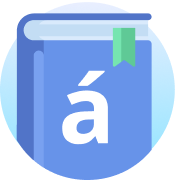
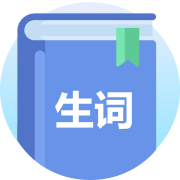
BBC-986 modal

Changed region(s): [[0.2857, 0.3889, 0.7429, 0.8056], [0.0857, 0.1389, 0.1143, 0.25], [0.8571, 0.0833, 0.8857, 0.1111]]

diff --git a/packages/chai-contents-view-v2/src/components/molecules/LayoutModalVoca.tsx b/packages/chai-contents-view-v2/src/components/molecules/LayoutModalVoca.tsx
@@ -2,15 +2,10 @@ import styled from "@emotion/styled";
 import React from "react";
 import ComponentButtonFillBlack from "./ComponentButtonFillBlack";
 import ImgVoca from "../../images/img/img_voca.png";
-import IconSpeaker from "../../images/icon/icon_speaker_white.svg";
+import IconClose from "../../images/icon/icon_close_black.svg";
+import ComponentButtonPlay from "./ComponentButtonPlay";
 
 const ModalBase = styled.div`
-  .btns-wrap {
-    .btn {
-      /* 28px */
-      font-size: 1.4vw;
-    }
-  }
 `;
 
 
@@ -20,6 +15,10 @@ const LayoutModalVoca = () => {
     <ModalBase className="modal voca-modal">
       <div className="modal-bg"></div>
       <div className="modal-container base-modal">
+        {/* TODO: key설명 - 모달 닫기버튼 */}
+        <button className="btn-close-modal">
+          <img src={IconClose} alt="닫기" />
+        </button>
         <div className="base-wrapper">
           {/* 제목영역 */}
           <div className="base-ttl">
@@ -27,26 +26,17 @@ const LayoutModalVoca = () => {
               <img src={ImgVoca} alt="" className="img" />
             </div>
             <div className="txt-wrap">
-              <h2 className="ttl">새로운 단어</h2>
             </div>
           </div>
           {/* 내용영역 */}
+          {/* TODO: key설명 - slide의 페이지 */}
           <div className="base-conts">
             <div className="voca-wrap">
               <p className="chinese">{'游泳'}</p>
               <p className="pinyin">{'yóuyǒng'}</p>
               <p className="mean">{'수영하다'}</p>
             </div>
-            {/* FIXME: key디자인수정예정 - 음원재생버튼 모양 변경(원이 아닌 모양으로), 이미지 변경 */}
-            <button className="btn-icon">
-              <div className="icon-wrap">
-                <img src={IconSpeaker} alt="스피커모양" className="icon" />
-              </div>
-            </button>
-          </div>
-
-          <div className="btns-wrap">
-            <ComponentButtonFillBlack text="확인" />
+            <ComponentButtonPlay />
           </div>
         </div>
       </div>

diff --git a/packages/chai-contents-view-v2/src/components/molecules/LayoutModalContinue.tsx b/packages/chai-contents-view-v2/src/components/molecules/LayoutModalContinue.tsx
@@ -1,0 +1,56 @@
+import styled from "@emotion/styled";
+import React from "react";
+import ImgContinue from "../../images/img/img_continue.png";
+import ComponentButtonRadiBorderMain from "./ComponentButtonRadiBorderMain";
+import ComponentButtonRadiFillMain from "./ComponentButtonRadiFillMain";
+
+const ModalBase = styled.div`
+`;
+
+const ModalBaseTitle = styled.div`
+  .profile-img-wrap {
+    overflow: visible;
+  }
+  
+  .profile-img-wrap .img {
+    transform: none;
+  }
+`;
+
+const ModalBaseContents = styled.div`
+`;
+
+
+const LayoutModalContinue = () => {
+  return (
+    // TODO: key설명 - active가 되면 보임
+    <ModalBase className="modal">
+      <div className="modal-bg"></div>
+      <div className="modal-container base-modal">
+        <div className="base-wrapper">
+          {/* 제목영역 */}
+          <ModalBaseTitle className="base-ttl">
+            <div className="profile-img-wrap">
+              <img src={ImgContinue} alt="" className="img" />
+            </div>
+            <div className="txt-wrap">
+              <h2 className="ttl">학습 이어하기</h2>
+            </div>
+          </ModalBaseTitle>
+          <ModalBaseContents className="base-conts">
+            <div className="dec">아직 학습을 하지 않은 내용이 있어요.<br />
+              지난 학습에 이어서 진행 하시겠어요?</div>
+          </ModalBaseContents>
+
+          {/* TODO: key설명 - 버튼이 하나만 들어갈 수도 있음 */}
+          <div className="btns-wrap">
+            <ComponentButtonRadiBorderMain text="처음부터 하기" />
+            <ComponentButtonRadiFillMain text="이어서 하기" />
+          </div>
+        </div>
+      </div>
+    </ModalBase>
+  );
+};
+
+export default LayoutModalContinue;

diff --git a/packages/chai-ui-v2/src/styles/scss/component/_modal.scss b/packages/chai-ui-v2/src/styles/scss/component/_modal.scss
@@ -34,8 +34,7 @@
   position: absolute;
   top: 50%;
   left: 50%;
-  max-width: vw(720);
-  width: 90%;
+  width: vw(800);
   padding: vh(60) vw(60);
   border-radius: vw(30);
   background-color: color(gray-ff);
@@ -48,7 +47,7 @@
   }
 }
 
-// 정오답 모달
+// 모달 기본형
 .base-modal {
   overflow: auto;
   max-height: 90vh;
@@ -110,11 +109,17 @@
 
 // 단어장
 .voca-modal {
+  .base-wrapper {
+    width: 100%;
+  }
+
   .base-ttl {
+    justify-content: center;
+
     .profile-img-wrap {
       overflow: visible;
-      width: vw(175);
-      height: vh(180);
+      width: vw(180);
+      height: vw(180);
     }
 
     .img {
@@ -125,7 +130,7 @@
   .base-conts {
     display: block;
     height: auto;
-    padding: vh(40) vw(60);
+    padding: vh(40) vw(60) vh(60);
   }
 
   .chinese {
@@ -136,23 +141,17 @@
 
   .pinyin {
     font-size: vw(36);
-    color: color(gray-80);
+    color: color(gray-66);
     text-align: left;
   }
 
   .mean {
     font-size: vw(36);
-    color: color(gray-80);
+    color: color(gray-66);
     text-align: left;
   }
 
   .btn-icon {
-    width: vw(80);
-    height: vw(80);
-    margin-top: vh(25);
-
-    .icon {
-      width: vw(40);
-    }
+    margin-top: vh(98);
   }
 }

diff --git a/packages/chai-ui-v2/src/styles/scss/layout/_form.scss b/packages/chai-ui-v2/src/styles/scss/layout/_form.scss
@@ -13,13 +13,26 @@
 	@include flex-center(inline-flex);
 
 	border: 3px solid color(gray-ff);
-	background-color: color(main);
 	box-shadow: $btn-shadow;
+
+	.icon {
+		@include full;
+	}
 	
 	&:disabled {
 		border-color: color(gray-c9);
 		background-color: color(gray-c9);
 	}
+}
+
+.btn-close-modal {
+	@extend %btn;
+	@include square(vw(48));
+
+	position: absolute;
+	top: vh(27);
+	left: auto;
+	right: vw(12);
 }
 
 .btn-mike {
@@ -108,7 +121,7 @@
 	border: 1px solid color(main);
 	border-radius: vw(100);
 	font-weight: 600;
-	font-size: vw(24);
+	font-size: vw(26);
 	color: color(main);
 	box-shadow: $btn-shadow;
 
@@ -127,7 +140,7 @@
 	border-radius: vw(100);
 	background-color: color(main);
 	font-weight: 600;
-	font-size: vw(24);
+	font-size: vw(26);
 	color: color(gray-ff);
 	box-shadow: $btn-shadow;
 

diff --git a/packages/chai-contents-view-v2/src/components/pages/TemplateQuizWordBlank.tsx b/packages/chai-contents-view-v2/src/components/pages/TemplateQuizWordBlank.tsx
@@ -7,6 +7,7 @@ import ComponentContsInfo from "../molecules/ComponentContsInfo";
 import ImgTemp01 from "../../images/img/temp_profile01.png";
 import ComponentButtonRadiFillMain from "../molecules/ComponentButtonRadiFillMain";
 import ComponentButtonRadiBorderMain from "../molecules/ComponentButtonRadiBorderMain";
+import LayoutModalContinue from "../molecules/LayoutModalContinue";
 
 const QuizContainer = styled.form`
   .quiz-question-wrap {
@@ -118,6 +119,7 @@ const TemplateQuizWordBlank = () => {
         </QuizContainer>
       </div>
       <LayoutModal />
+      <LayoutModalContinue />
       <LayoutModalVoca />
     </div>
   );

diff --git a/packages/chai-ui-v2/src/styles/scss/utility/_variable.scss b/packages/chai-ui-v2/src/styles/scss/utility/_variable.scss
@@ -17,9 +17,11 @@ $orange-400: #ED8914;
 $orange-500: #FF6700;
 $gray-22: #222222;
 $gray-56: #565656;
+$gray-66: #666666;
 $gray-80: #808080;
 $gray-c9: #C9C9C9;
 $gray-db: #DBDBDB;
+$gray-ee: #EEEEEE;
 $gray-f0: #F0F0F0;
 $gray-f5: #F5F5F5;
 $gray-ff: #ffffff;
@@ -47,9 +49,11 @@ $color-set: (
 	orange-500: $orange-500,
 	gray-22: $gray-22,
 	gray-56: $gray-56,
+	gray-66: $gray-66,
 	gray-80: $gray-80,
 	gray-c9: $gray-c9,
 	gray-db: $gray-db,
+	gray-ee: $gray-ee,
 	gray-f0: $gray-f0,
 	gray-f5: $gray-f5,
 	gray-ff: $gray-ff,
